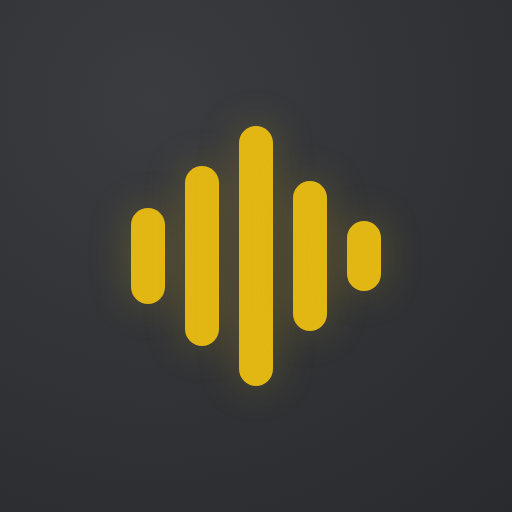
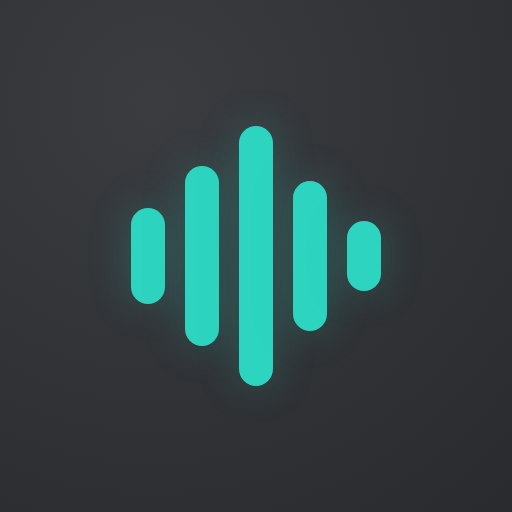
feat: turquoise accent + ambient background pad
- recolor brand accent from serika yellow to turquoise (--main: #2dd4bf dark /
  #0d9488 light), OG image, and app icon
- add Ambient toggle (header): a soft Web Audio ambient pad that settles in the
  back - low volume, fade in/out, animated equalizer icon (no audio file, CSP-safe)
- add a subtle breathing accent-glow backdrop that lifts while ambient plays

Changed region(s): [[0.25, 0.25, 0.75, 0.75]]

diff --git a/components/Ambient.tsx b/components/Ambient.tsx
@@ -1,0 +1,147 @@
+"use client";
+
+import { useEffect, useRef, useState } from "react";
+
+// A soft ambient pad that "settles in the back" - a warm, slowly-evolving drone
+// generated live with the Web Audio API (no audio file, so nothing to ship and
+// nothing for the CSP to allow). Low volume, gentle 2s fade in / 1.2s fade out.
+// It needs a user gesture to start (browser autoplay policy), so the toggle is
+// that gesture; it never plays on its own.
+export default function Ambient() {
+  const [on, setOn] = useState(false);
+  const ctxRef = useRef<AudioContext | null>(null);
+  const stopRef = useRef<(() => void) | null>(null);
+
+  const start = () => {
+    const AC =
+      window.AudioContext ||
+      (window as unknown as { webkitAudioContext?: typeof AudioContext }).webkitAudioContext;
+    if (!AC) return;
+    const ctx = ctxRef.current ?? new AC();
+    ctxRef.current = ctx;
+    if (ctx.state === "suspended") ctx.resume();
+    const now = ctx.currentTime;
+
+    const master = ctx.createGain();
+    master.gain.value = 0;
+    master.connect(ctx.destination);
+
+    const filter = ctx.createBiquadFilter();
+    filter.type = "lowpass";
+    filter.frequency.value = 620;
+    filter.Q.value = 0.5;
+    filter.connect(master);
+
+    // a warm A-minor-ish pad: root, fifth, octave, twelfth - each a detuned pair
+    // so the tone shimmers instead of sitting dead still
+    const base = 110; // A2
+    const partials = [base, base * 1.5, base * 2, base * 3];
+    const oscs: OscillatorNode[] = [];
+    partials.forEach((f, i) => {
+      for (const detune of [-6, 6]) {
+        const o = ctx.createOscillator();
+        o.type = i % 2 ? "sine" : "triangle";
+        o.frequency.value = f;
+        o.detune.value = detune;
+        const g = ctx.createGain();
+        g.gain.value = 0.1 / partials.length;
+        o.connect(g).connect(filter);
+        o.start();
+        oscs.push(o);
+      }
+    });
+
+    // a very slow LFO breathes the filter cutoff so the pad keeps evolving
+    const lfo = ctx.createOscillator();
+    lfo.frequency.value = 0.05;
+    const lfoGain = ctx.createGain();
+    lfoGain.gain.value = 220;
+    lfo.connect(lfoGain).connect(filter.frequency);
+    lfo.start();
+
+    master.gain.linearRampToValueAtTime(0.06, now + 2); // fade in
+
+    stopRef.current = () => {
+      const t = ctx.currentTime;
+      master.gain.cancelScheduledValues(t);
+      master.gain.setValueAtTime(master.gain.value, t);
+      master.gain.linearRampToValueAtTime(0, t + 1.2); // fade out
+      window.setTimeout(() => {
+        for (const o of oscs) {
+          try {
+            o.stop();
+          } catch {
+            /* already stopped */
+          }
+        }
+        try {
+          lfo.stop();
+        } catch {
+          /* already stopped */
+        }
+      }, 1300);
+    };
+  };
+
+  const toggle = () => {
+    const next = !on;
+    if (next) start();
+    else {
+      stopRef.current?.();
+      stopRef.current = null;
+    }
+    setOn(next);
+    document.documentElement.dataset.ambient = next ? "on" : "off";
+  };
+
+  useEffect(
+    () => () => {
+      stopRef.current?.();
+      try {
+        ctxRef.current?.close();
+      } catch {
+        /* already closed */
+      }
+    },
+    [],
+  );
+
+  return (
+    <button
+      onClick={toggle}
+      className="focus-ring"
+      aria-pressed={on}
+      aria-label={on ? "Turn off ambient sound" : "Turn on ambient sound"}
+      title="Ambient sound"
+      style={{ color: on ? "var(--main)" : "var(--sub)", display: "grid", placeItems: "center", width: 34, height: 34 }}
+      onMouseEnter={(e) => !on && (e.currentTarget.style.color = "var(--main)")}
+      onMouseLeave={(e) => !on && (e.currentTarget.style.color = "var(--sub)")}
+    >
+      {on ? (
+        // animated equalizer bars while playing
+        <span style={{ display: "flex", alignItems: "center", gap: 2, height: 16 }} aria-hidden="true">
+          {[0, 1, 2, 3].map((i) => (
+            <span
+              key={i}
+              style={{
+                width: 2.5,
+                height: 16,
+                background: "currentColor",
+                borderRadius: 2,
+                transformOrigin: "center",
+                animation: `eq 0.9s ease-in-out ${i * 0.12}s infinite`,
+              }}
+            />
+          ))}
+        </span>
+      ) : (
+        // muted speaker when off
+        <svg viewBox="0 0 24 24" width="17" height="17" fill="none" stroke="currentColor" strokeWidth="2" strokeLinecap="round" strokeLinejoin="round" aria-hidden="true">
+          <path d="M11 5 6 9H2v6h4l5 4V5z" />
+          <line x1="23" y1="9" x2="17" y2="15" />
+          <line x1="17" y1="9" x2="23" y2="15" />
+        </svg>
+      )}
+    </button>
+  );
+}

diff --git a/app/globals.css b/app/globals.css
@@ -17,7 +17,7 @@ html[data-theme="dark"] {
   --sub: #a6a8ac;
   --sub-alt: #2c2e31;
   --text: #d1d0c5;
-  --main: #e2b714;
+  --main: #2dd4bf;
   --error: #ca4754;
   --card: #2c2e31;
   --card-hi: #3a3c40;
@@ -31,7 +31,7 @@ html[data-theme="light"] {
   --sub: #615e58;
   --sub-alt: #d6d4ca;
   --text: #2b2a27;
-  --main: #b58a00;
+  --main: #0d9488;
   --error: #c14150;
   --card: #efeee6;
   --card-hi: #f6f5ef;
@@ -58,6 +58,37 @@ body {
   -webkit-font-smoothing: antialiased;
   text-rendering: optimizeLegibility;
   transition: background 0.35s ease, color 0.35s ease;
+}
+
+/* a soft accent glow that settles in the back and slowly breathes; it lifts a
+   touch while the ambient pad is playing ([data-ambient="on"] on <html>) */
+body::before {
+  content: "";
+  position: fixed;
+  inset: 0;
+  z-index: 0;
+  pointer-events: none;
+  background:
+    radial-gradient(58% 48% at 82% -6%, color-mix(in srgb, var(--main) 9%, transparent) 0%, transparent 60%),
+    radial-gradient(52% 46% at 6% 106%, color-mix(in srgb, var(--main) 7%, transparent) 0%, transparent 62%);
+  opacity: 0.55;
+  animation: drift 16s ease-in-out infinite;
+}
+html[data-ambient="on"] body::before {
+  opacity: 1;
+  animation-duration: 9s;
+}
+
+@keyframes drift {
+  0%,
+  100% {
+    transform: translateY(0) scale(1);
+    opacity: 0.45;
+  }
+  50% {
+    transform: translateY(-2%) scale(1.05);
+    opacity: 0.7;
+  }
 }
 
 button {

diff --git a/app/page.tsx b/app/page.tsx
@@ -8,6 +8,7 @@ import TakeList from "@/components/TakeList";
 import AddVoice from "@/components/AddVoice";
 import VoicePicker from "@/components/VoicePicker";
 import ThemeToggle, { useTheme } from "@/components/ThemeToggle";
+import Ambient from "@/components/Ambient";
 
 type Tab = "play" | "library" | "voices";
 
@@ -135,7 +136,7 @@ export default function App() {
   );
 
   return (
-    <div style={{ minHeight: "100dvh", display: "flex", flexDirection: "column" }}>
+    <div style={{ minHeight: "100dvh", display: "flex", flexDirection: "column", position: "relative", zIndex: 1 }}>
       <header
         style={{
           display: "flex",
@@ -155,7 +156,8 @@ export default function App() {
             _
           </span>
         </div>
-        <div style={{ marginLeft: "auto" }}>
+        <div style={{ marginLeft: "auto", display: "flex", alignItems: "center", gap: 4 }}>
+          <Ambient />
           <ThemeToggle theme={theme} onToggle={toggleTheme} />
         </div>
       </header>

diff --git a/app/opengraph-image.tsx b/app/opengraph-image.tsx
@@ -8,7 +8,7 @@ export const contentType = "image/png";
 // Home share card: the wordmark + tagline beside a mock "playground" panel -
 // a voice chip row and a waveform - in the monkeytype serika palette.
 export default function Image() {
-  const YELLOW = "#e2b714";
+  const YELLOW = "#2dd4bf"; // brand accent (turquoise)
   const BG = "#2b2d30";
   const PANEL = "#323437";
   const TEXT = "#d1d0c5";
@@ -29,7 +29,7 @@ export default function Image() {
           alignItems: "center",
           gap: 60,
           padding: "0 76px",
-          background: `radial-gradient(900px 900px at 90% 6%, rgba(226,183,20,0.14) 0%, rgba(226,183,20,0) 55%), radial-gradient(1000px 700px at 8% 120%, #34363a 0%, ${BG} 60%)`,
+          background: `radial-gradient(900px 900px at 90% 6%, rgba(45,212,191,0.16) 0%, rgba(45,212,191,0) 55%), radial-gradient(1000px 700px at 8% 120%, #34363a 0%, ${BG} 60%)`,
           color: TEXT,
           fontFamily: "monospace",
         }}
